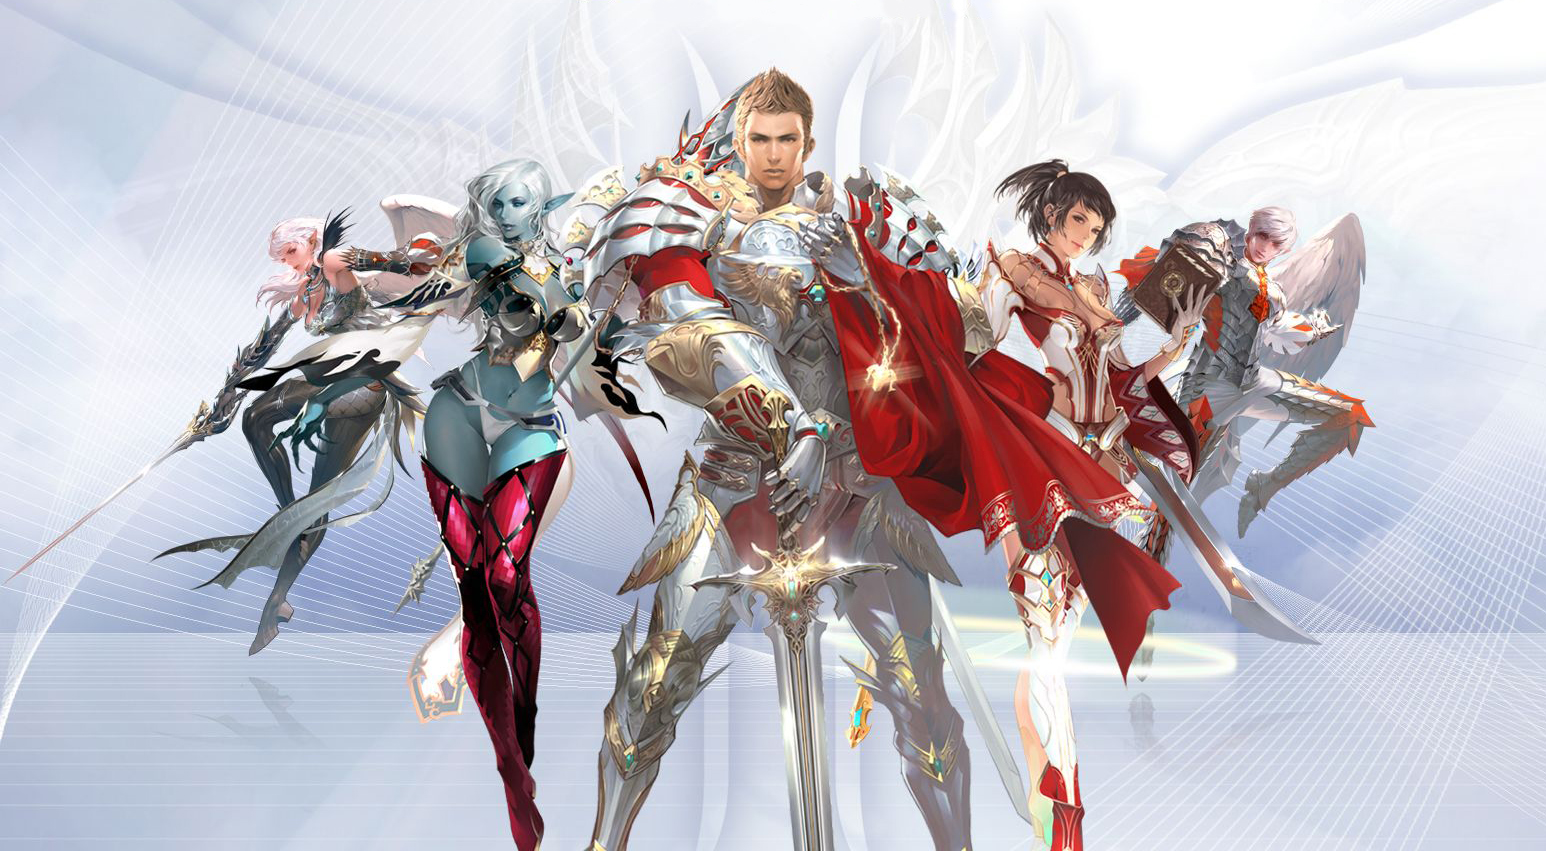
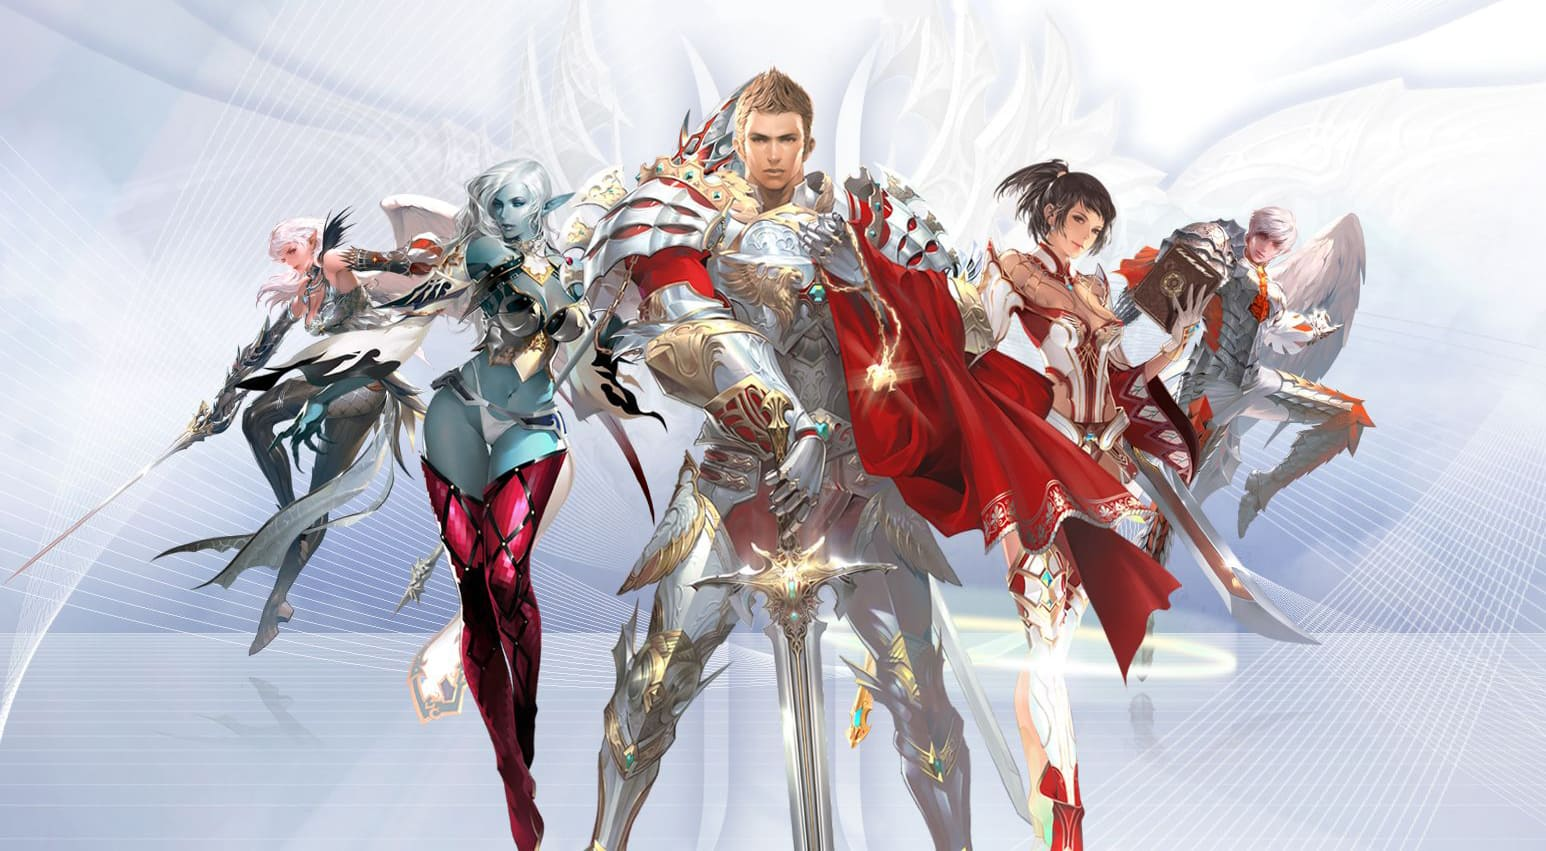
imgs compression

Changed region(s): [[0.4347, 0.1528, 0.4657, 0.2139], [0.621, 0.5805, 0.652, 0.611]]

diff --git a/src/pages/Game.jsx b/src/pages/Game.jsx
@@ -109,25 +109,25 @@ const Game = () => {
             </div>
             <ul className='row row-cols-1 row-cols-sm-2 row-cols-lg-3 row-cols-xl-1 g-3'>
               <li>
-                <OfferLine serv={'Airin + Blackbird'} descr={'Тяж, Лайт, Маг Сэт Ада Пустые, Наборы (сеты), R'} seller={'Weatherwax'} sellerRating={4.8} sellerImg={"imgs/user.png"} count={1} price={186.97}/>
+                <OfferLine serv={'Airin + Blackbird'} descr={'Тяж, Лайт, Маг Сэт Ада Пустые, Наборы (сеты), R'} seller={'Weatherwax'} sellerRating={4.8} sellerImg={"imgs/user.jpg"} count={1} price={186.97}/>
               </li>
               <li>
                 <OfferLine serv={'Airin + Blackbird'} descr={'Повелитель Бури СХ 109 и 50%/ДУАЛ АРХИМАГ 105, 109 уровень, Тёмные эльфы, Одетый (подробности в описании)'} seller={'User8name'} sellerRating={4.1} sellerImg={"imgs/user.jpg"} count={2} price={186.97}/>
               </li>
               <li>
-                <OfferLine serv={'Airin + Blackbird'} descr={'Тяж, Лайт, Маг Сэт Ада Пустые, Наборы (сеты), R'} seller={'Weatherwax'} sellerRating={4.8} sellerImg={"imgs/user.png"} count={1} price={186.97}/>
+                <OfferLine serv={'Airin + Blackbird'} descr={'Тяж, Лайт, Маг Сэт Ада Пустые, Наборы (сеты), R'} seller={'Weatherwax'} sellerRating={4.8} sellerImg={"imgs/user.jpg"} count={1} price={186.97}/>
               </li>
               <li>
                 <OfferLine serv={'Airin + Blackbird'} descr={'Повелитель Бури СХ 109 и 50%/ДУАЛ АРХИМАГ 105, 109 уровень, Тёмные эльфы, Одетый (подробности в описании)'} seller={'User8name'} sellerRating={4.1} sellerImg={"imgs/user.jpg"} count={2} price={186.97}/>
               </li>
               <li>
-                <OfferLine serv={'Airin + Blackbird'} descr={'Тяж, Лайт, Маг Сэт Ада Пустые, Наборы (сеты), R'} seller={'Weatherwax'} sellerRating={4.8} sellerImg={"imgs/user.png"} count={1} price={186.97}/>
+                <OfferLine serv={'Airin + Blackbird'} descr={'Тяж, Лайт, Маг Сэт Ада Пустые, Наборы (сеты), R'} seller={'Weatherwax'} sellerRating={4.8} sellerImg={"imgs/user.jpg"} count={1} price={186.97}/>
               </li>
               <li>
                 <OfferLine serv={'Airin + Blackbird'} descr={'Повелитель Бури СХ 109 и 50%/ДУАЛ АРХИМАГ 105, 109 уровень, Тёмные эльфы, Одетый (подробности в описании)'} seller={'User8name'} sellerRating={4.1} sellerImg={"imgs/user.jpg"} count={2} price={186.97}/>
               </li>
               <li>
-                <OfferLine serv={'Airin + Blackbird'} descr={'Тяж, Лайт, Маг Сэт Ада Пустые, Наборы (сеты), R'} seller={'Weatherwax'} sellerRating={4.8} sellerImg={"imgs/user.png"} count={1} price={186.97}/>
+                <OfferLine serv={'Airin + Blackbird'} descr={'Тяж, Лайт, Маг Сэт Ада Пустые, Наборы (сеты), R'} seller={'Weatherwax'} sellerRating={4.8} sellerImg={"imgs/user.jpg"} count={1} price={186.97}/>
               </li>
               <li>
                 <OfferLine serv={'Airin + Blackbird'} descr={'Повелитель Бури СХ 109 и 50%/ДУАЛ АРХИМАГ 105, 109 уровень, Тёмные эльфы, Одетый (подробности в описании)'} seller={'User8name'} sellerRating={4.1} sellerImg={"imgs/user.jpg"} count={2} price={186.97}/>
